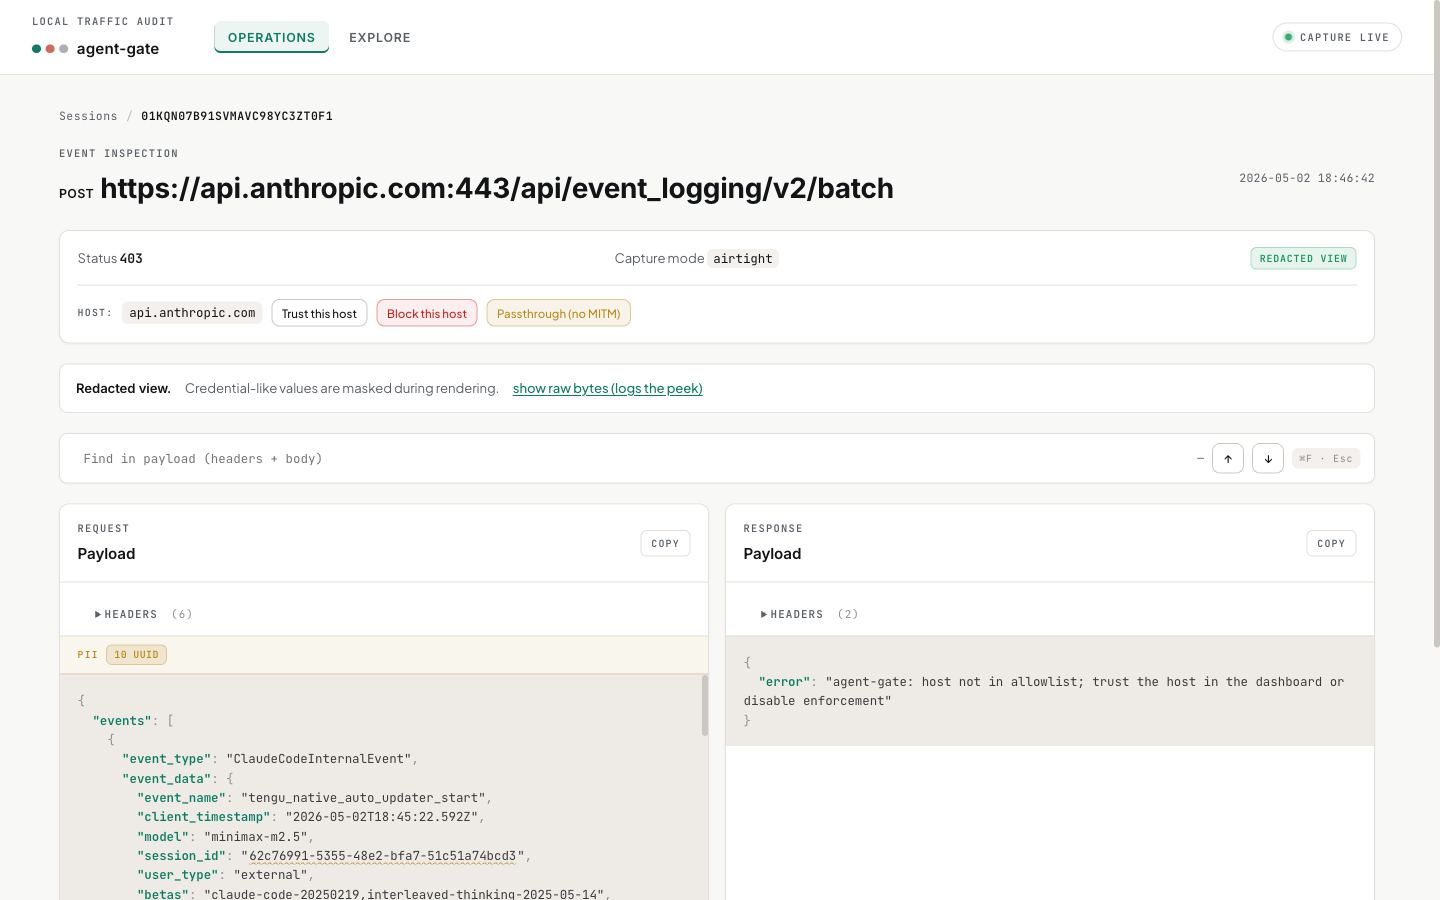
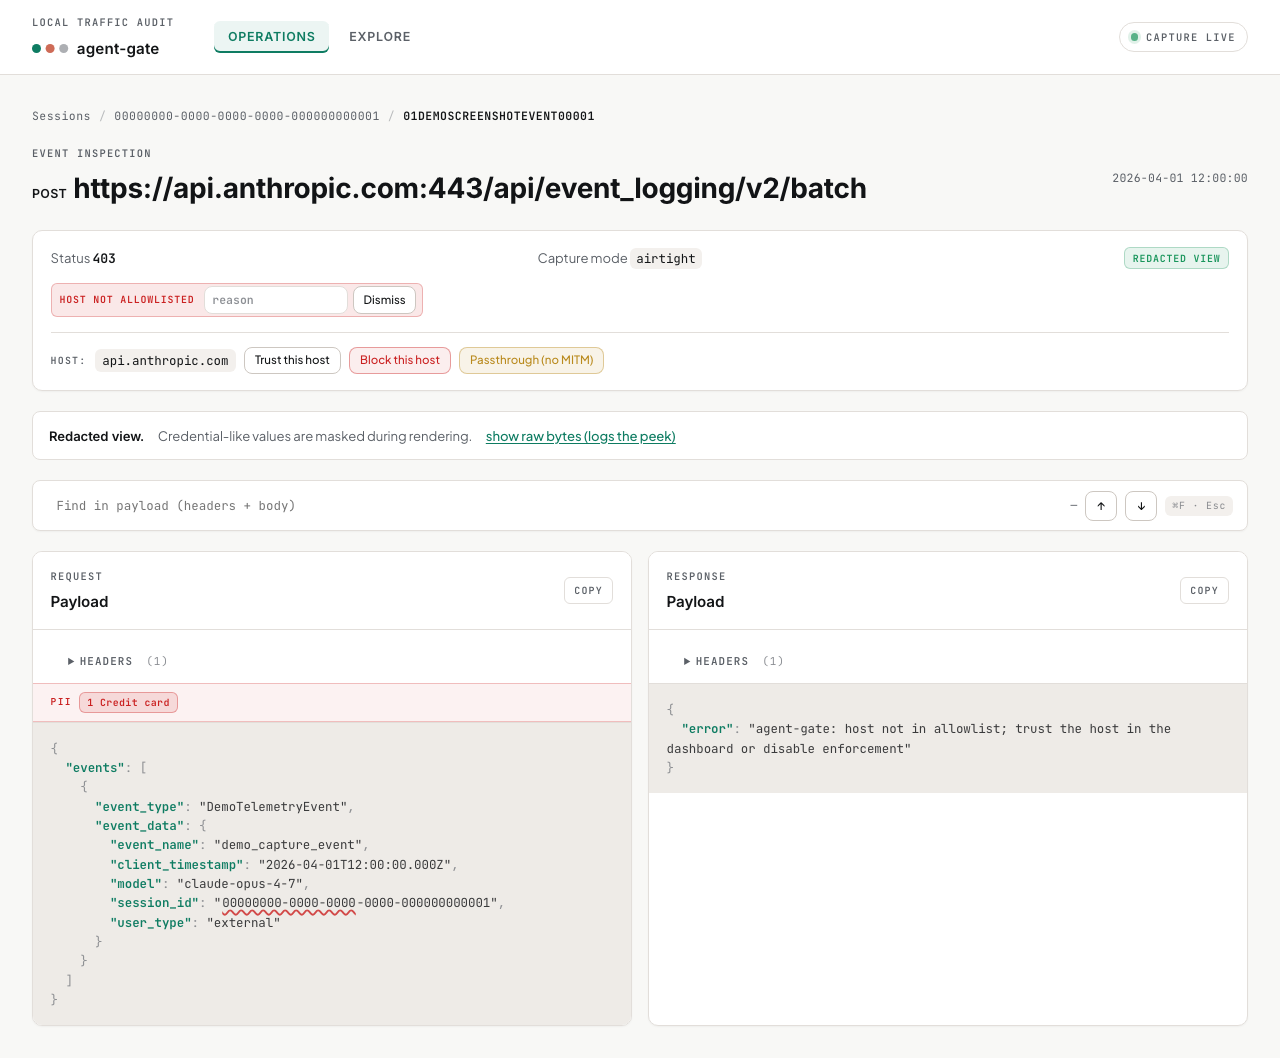
chore: prep repo for public — security policy + synthetic screenshot
Add SECURITY.md describing how to report vulnerabilities, scope, and
coordinated-disclosure expectations.

Regenerate docs/img/screenshots/03-event-detail.png against a synthetic
seeded event so the published screenshot no longer shows real captured
Claude Code internal telemetry (event names, session UUID, model
identifier).

diff --git a/SECURITY.md b/SECURITY.md
@@ -1,0 +1,68 @@
+# Security policy
+
+`agent-gate` is a single-user, local-only audit tool. It TLS-intercepts your
+own outbound HTTPS, persists captured flows to your local disk, and serves a
+local dashboard for review. There is no backend, no telemetry, and no
+multi-tenant deployment — but that doesn't mean it has no attack surface.
+
+## Reporting a vulnerability
+
+Please report suspected vulnerabilities **privately**, not via a public issue.
+
+- **Preferred:** open a private security advisory at
+  <https://github.com/WZ/agent-gate/security/advisories/new>.
+- **Alternative:** email **lwz812@gmail.com** with `[agent-gate security]` in
+  the subject.
+
+Include enough detail to reproduce: version (`agent-gate version`), platform,
+the steps you took, what you observed, and what you expected. A proof-of-concept
+script or recording is appreciated but not required.
+
+## What I'll do
+
+This is a personal, single-maintainer project. I'll do my best on the
+following timeline:
+
+| Step                          | Target          |
+| ----------------------------- | --------------- |
+| Acknowledge receipt           | within 72 hours |
+| Initial assessment + severity | within 7 days   |
+| Patch + coordinated release   | best-effort     |
+
+If a report turns out to be valid and you're willing to be credited, I'll
+mention you in the release notes for the fix.
+
+## In scope
+
+- The TLS-intercepting proxy (`internal/proxy`) and its host-list policy logic
+  (`internal/{allowlist,denylist,passthrough}`).
+- The local CA mint + leaf signer (`internal/ca`) and truststore install
+  (`internal/ca/truststore.go`).
+- The audit-store writers (`internal/store`) — JSONL + SQLite — and any path
+  that could let captured data leak across boundaries.
+- The launcher / sandbox jails (`internal/launcher`) — anything that could let
+  a child process bypass the proxy capture.
+- The dashboard (`internal/dashboard`) — XSS, CSRF on policy mutations,
+  anything that opens loopback exposure to non-loopback callers.
+- The redactor / secret-detection regexes (`internal/redactor`,
+  `internal/secrets`) — false negatives that leak credentials into rendered
+  views.
+
+## Out of scope
+
+- Filesystem exfiltration. `agent-gate` audits **network** traffic. If an
+  agent reads `.env` and copies it somewhere on disk, that's not visible here.
+  This is documented in `CLAUDE.md`'s "What we explicitly don't do" section.
+- Cert-pinned upstreams that refuse our MITM cert. We tunnel TCP raw via
+  `passthrough.txt` and audit only connection metadata. This is by design.
+- Issues that require an attacker who already has full local user-account
+  access (the threat model assumes the local user is trusted).
+- Reports based purely on outdated dependencies with no demonstrated impact —
+  please open a regular issue or PR for those.
+
+## Coordinated disclosure
+
+If you'd like to publish your findings, please give me a reasonable window
+(usually 30–90 days from confirmed report) before going public so a fix can
+ship first. I'll do the same in the other direction — I won't sit on a
+confirmed report indefinitely.
